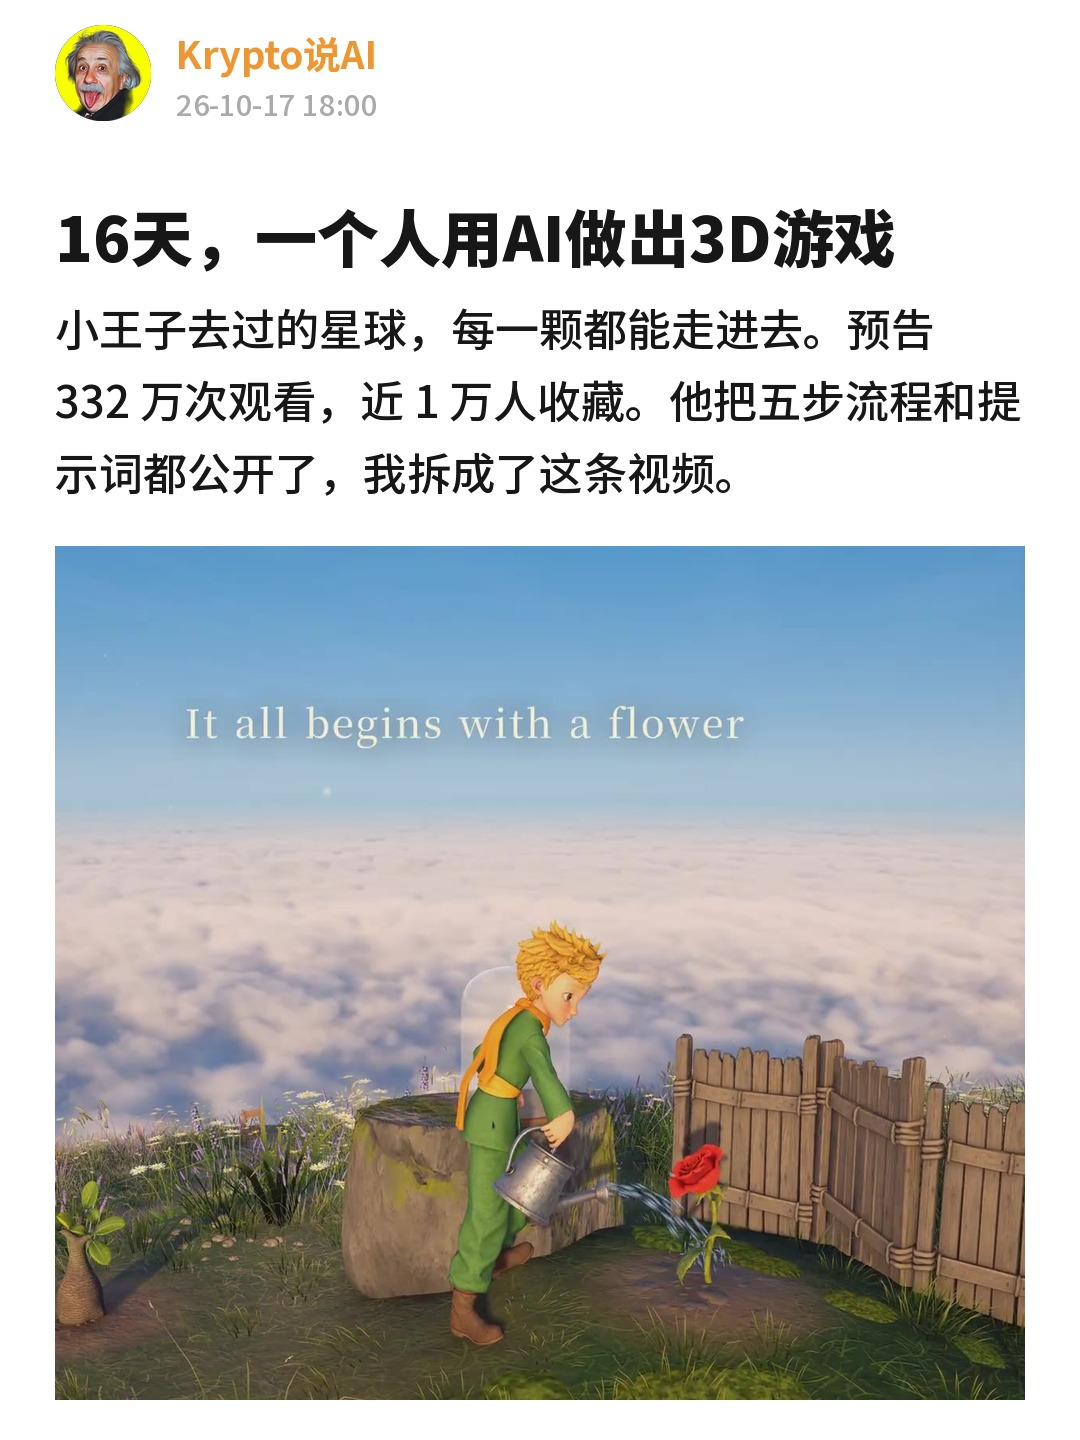
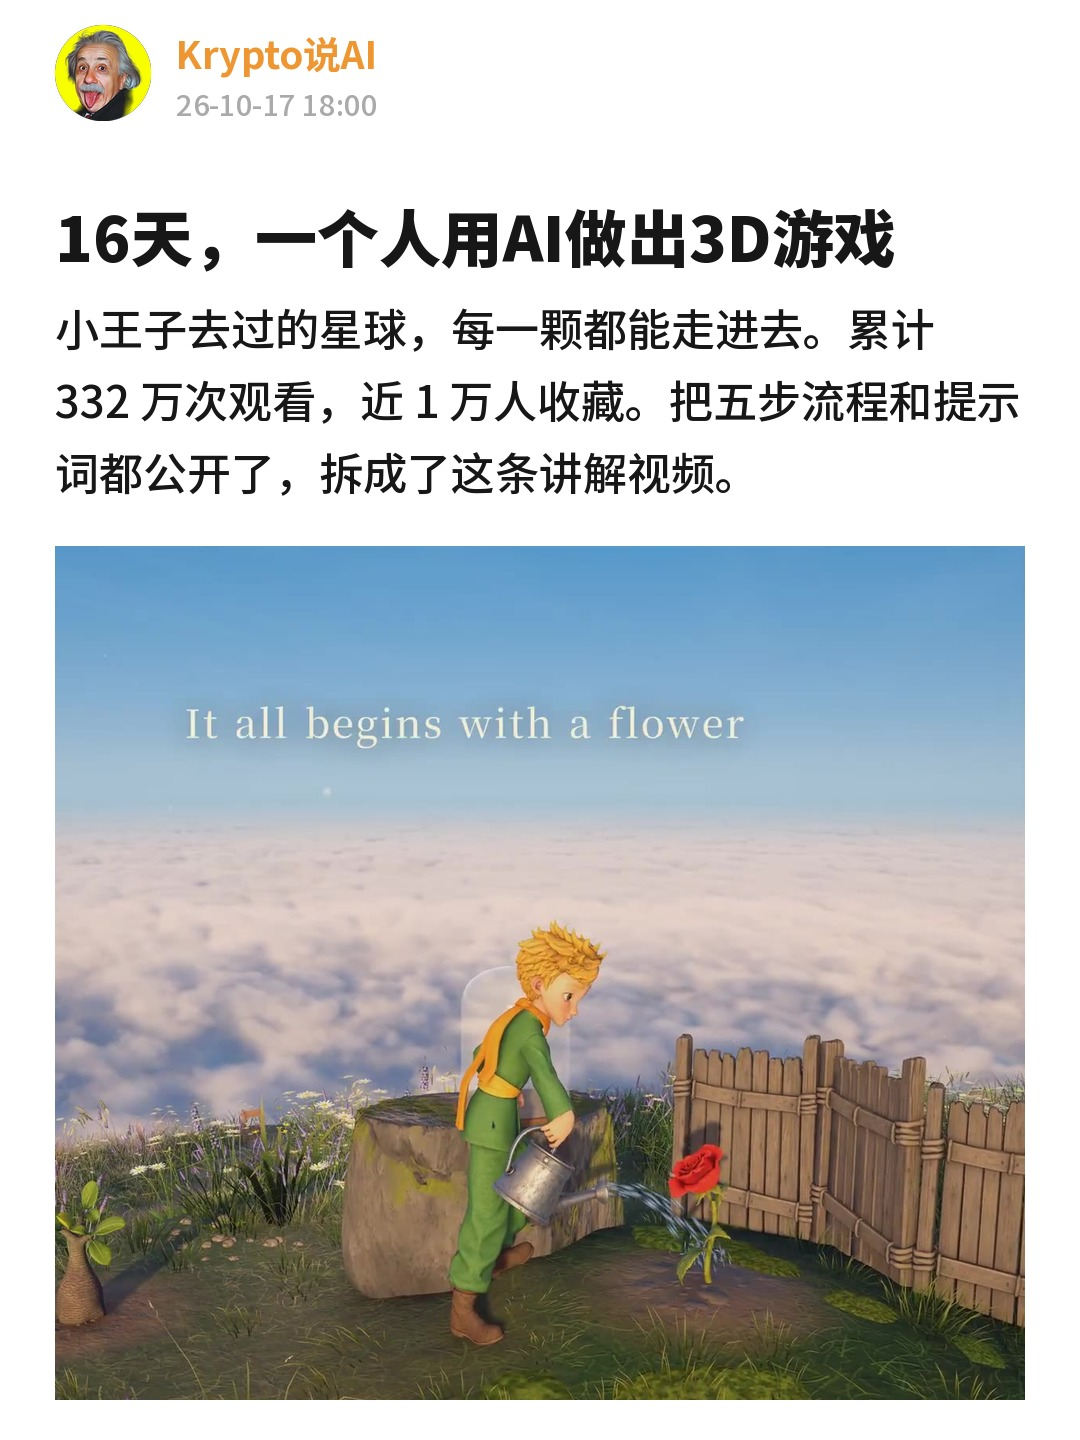
小王子视频封面：正文改成用户定的文案
Claude-Session: https://claude.ai/code/session_019uZqqJTxsHfu5pmB61XYiQ

Changed region(s): [[0.6111, 0.2188, 0.9472, 0.3125], [0.0611, 0.3125, 0.5806, 0.3438]]

diff --git a/发布/2026-10-17_littleprince_3dgame/make_cover.py b/发布/2026-10-17_littleprince_3dgame/make_cover.py
@@ -27,7 +27,7 @@ d.text((176, 82), "26-10-17 18:00", font=f(29, 500), fill=GREY)
 y = 190
 d.text((L, y), "16天，一个人用AI做出3D游戏", font=f(62, 900), fill=BLACK); y += 104
 fb = f(44, 500)
-for ln in wrap("小王子去过的星球，每一颗都能走进去。预告 332 万次观看，近 1 万人收藏。他把五步流程和提示词都公开了，我拆成了这条视频。", fb, W - 2 * L):
+for ln in wrap("小王子去过的星球，每一颗都能走进去。累计 332 万次观看，近 1 万人收藏。把五步流程和提示词都公开了，拆成了这条讲解视频。", fb, W - 2 * L):
     d.text((L, y), ln, font=fb, fill=BLACK); y += 72
 top, bottom = y + 36, H - 40
 src = Image.open(os.path.join(HERE, "代码工程/clips_lp/rose/0060.jpg")).convert("RGB")
